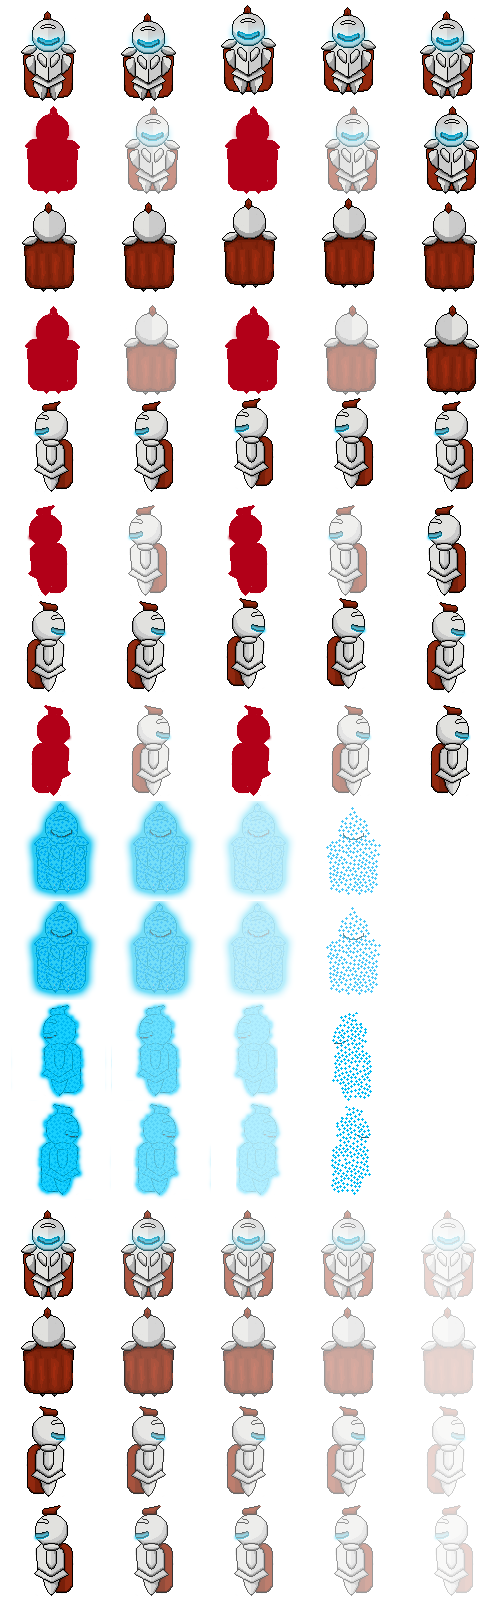
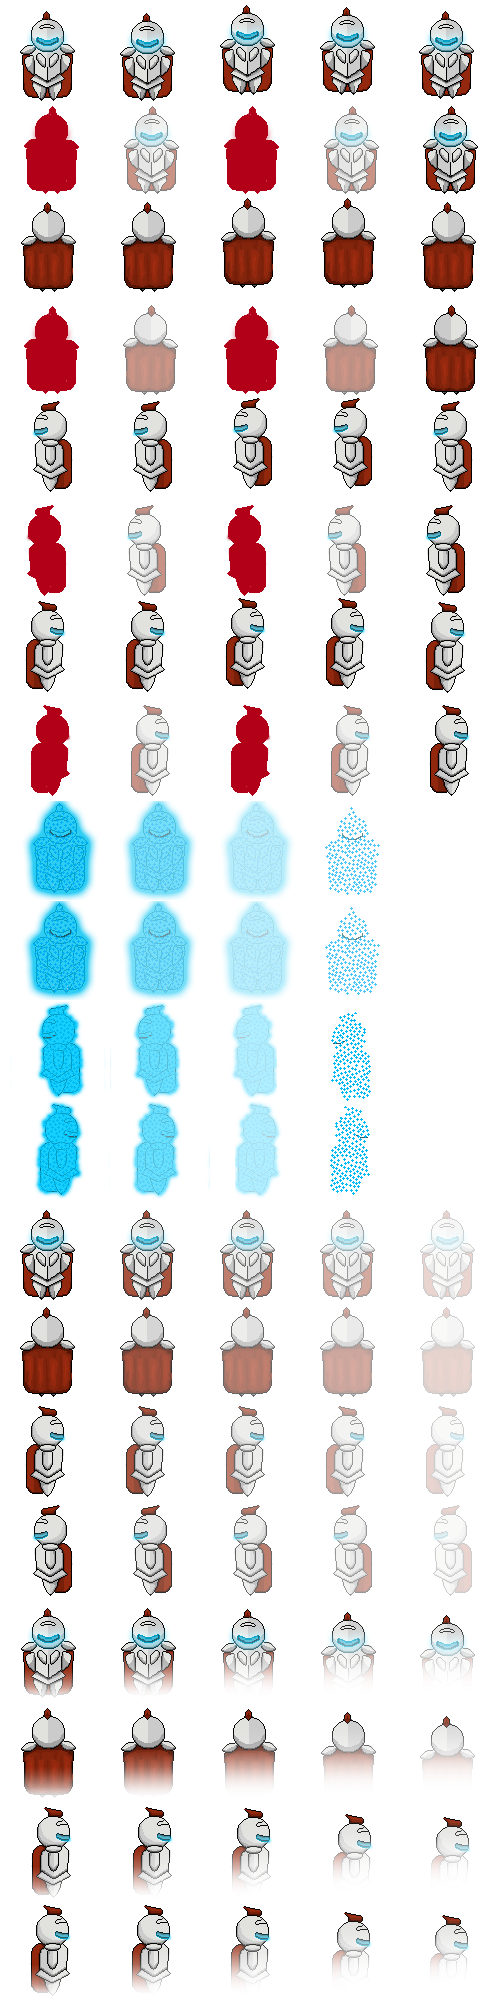
falling animation
just call setFalling() on a knight to see him faaaaaaaaaaaaaaaallll

diff --git a/deliverables/alpha/core/src/edu/teamWat/rhythmKnights/alpha/models/gameObjects/Knight.java b/deliverables/alpha/core/src/edu/teamWat/rhythmKnights/alpha/models/gameObjects/Knight.java
@@ -81,10 +81,15 @@ public class Knight extends GameObject {
     private int DASH_LEFT_START = 70;
     private int DASH_RIGHT_START = 75;
 
+    private int FALL_START = 80;
+    private int FALL_UP_START = 85;
+    private int FALL_LEFT_START = 90;
+    private int FALL_RIGHT_START = 95;
+
     // Sheet constants
-    private int SPRITE_ROWS = 16;
+    private int SPRITE_ROWS = 20;
     private int SPRITE_COLS = 5;
-    private int SPRITE_TOT = 80;
+    private int SPRITE_TOT = 100;
 
     private boolean isInvulnerable;
     private boolean isDashing = false;
@@ -219,6 +224,22 @@ public class Knight extends GameObject {
                 if (curFrame >= (this.facingFact / 2 * 5 + 44)) {
                     this.setActive(false);
                     this.setState(KnightState.NORMAL);
+                }
+                curTime = animDelay;
+            } else {
+                sprite.setFrame(curFrame);
+            }
+        } else if (this.state == KnightState.FALLING) {
+            curTime--;
+            if (curTime == 0) {
+                curFrame++;
+                // Finished animating the death frames
+                if (curFrame >= (this.facingFact / 2 * 5 + 84)) {
+                    this.setActive(false);
+                    if (this.isAlive) {
+                        this.setState(KnightState.DEAD);
+                        this.isAlive = false;
+                    }
                 }
                 curTime = animDelay;
             } else {
@@ -371,6 +392,24 @@ public class Knight extends GameObject {
         }
     }
 
+    public void setFalling() {
+        this.setState(KnightState.FALLING);
+        switch (this.facing) {
+            case FRONT:
+                curFrame = FALL_START;
+                break;
+            case BACK:
+                curFrame = FALL_UP_START;
+                break;
+            case LEFT:
+                curFrame = FALL_LEFT_START;
+                break;
+            case RIGHT:
+                curFrame = FALL_RIGHT_START;
+                break;
+        }
+    }
+
     /**
      * Decrements the player health by 1
      *
@@ -506,6 +545,8 @@ public class Knight extends GameObject {
         TAKINGDMG,
         /** Knight has successfully taken an action */
         MOVING,
+        /** Knight is falling into an empty tile */
+        FALLING,
         /** Knight is dead */
         DEAD
     }
